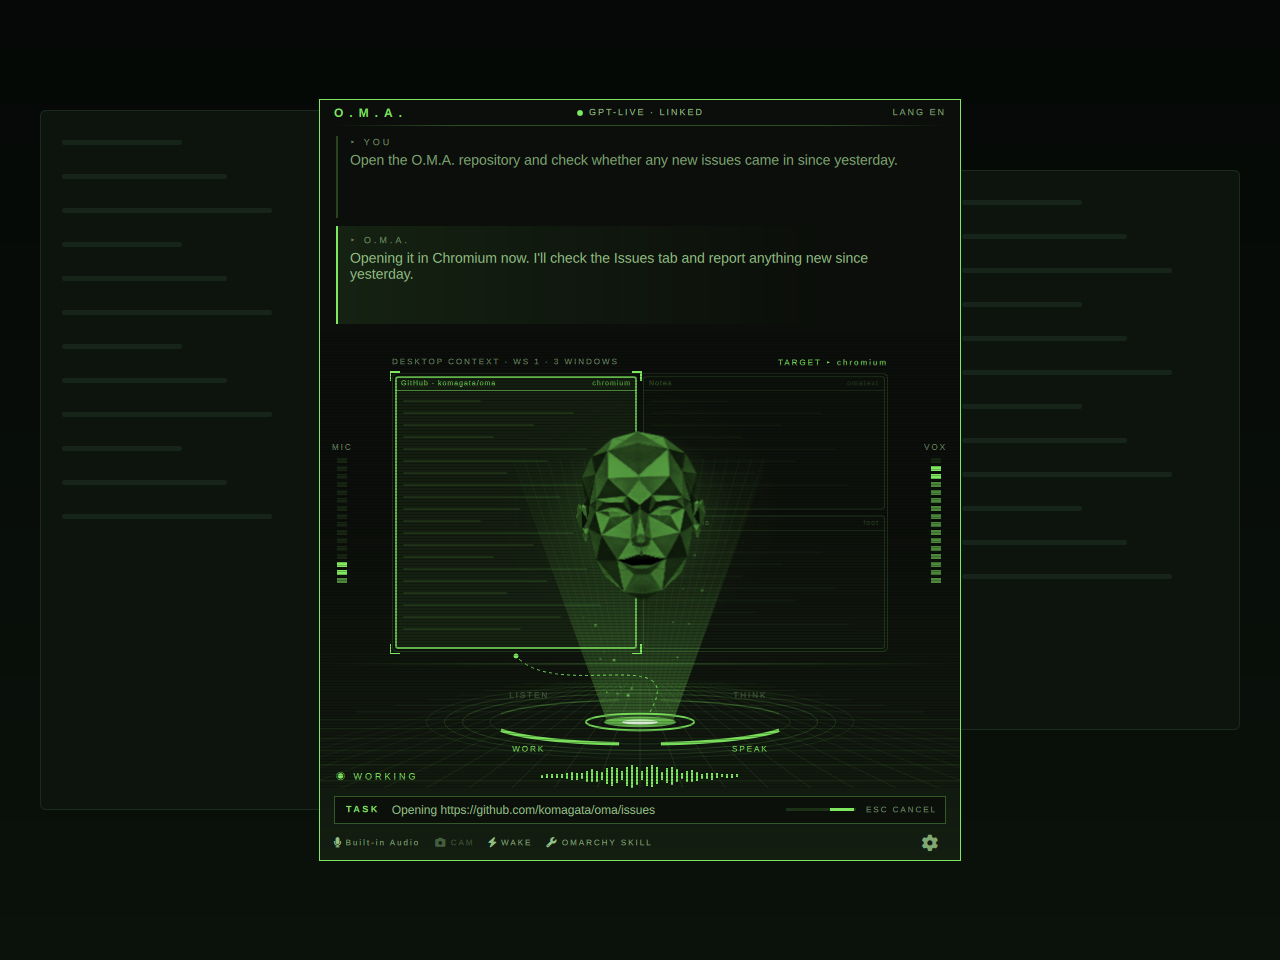
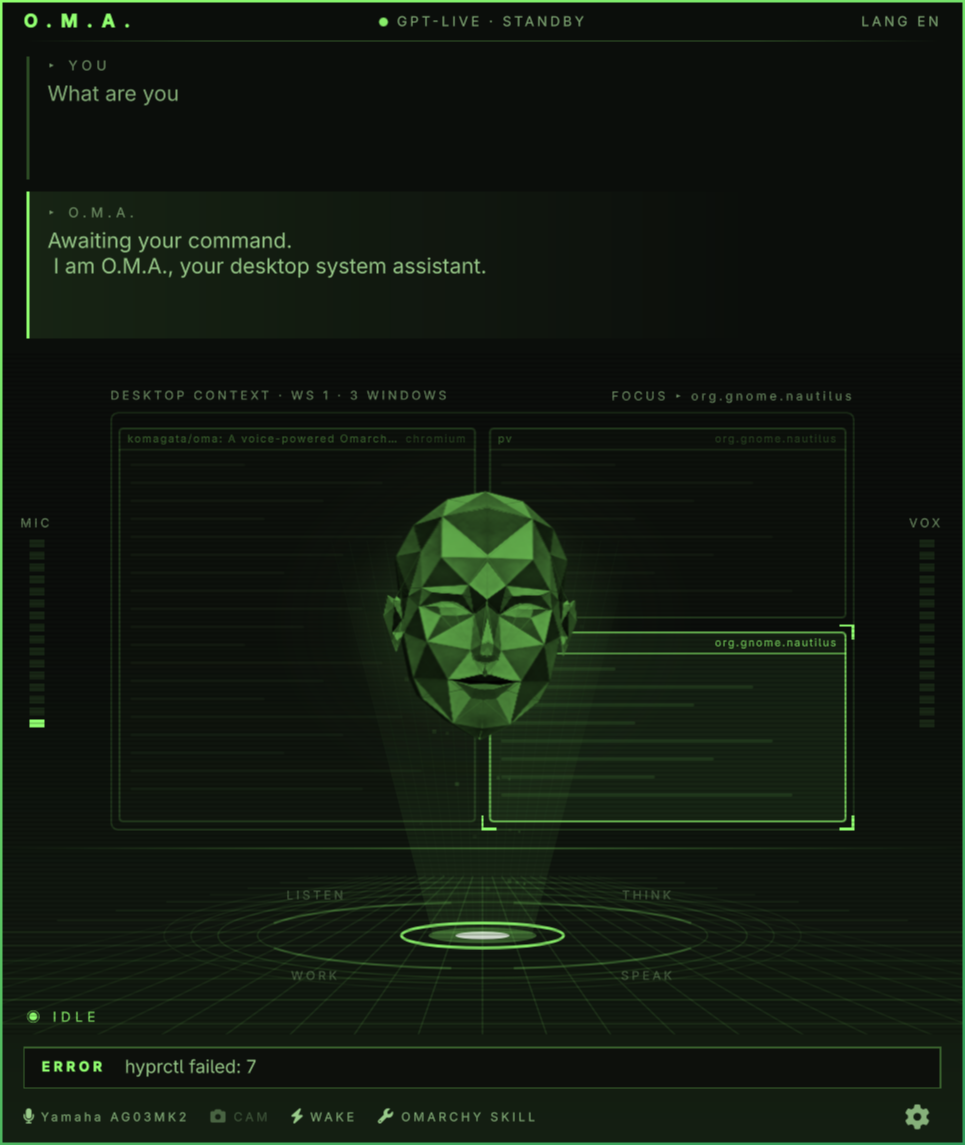
docs: use cropped real O.M.A. screenshot in README

diff --git a/README.md b/README.md
@@ -6,7 +6,7 @@ A voice assistant for the Omarchy desktop with a theme-colored low-poly face.
 Talk with GPT-Live, ask it to operate your PC, and remember useful preferences
 between conversations.
 
-![O.M.A. with a fictional conversation](preview.png)
+![O.M.A. running on the Omarchy desktop](preview.png)
 
 ![Real screenshots recorded in an Omarchy VM with the Neon Glow theme: O.M.A. beside Chromium, the approval dialog, and mini mode](docs/images/screenshots.png)
 
